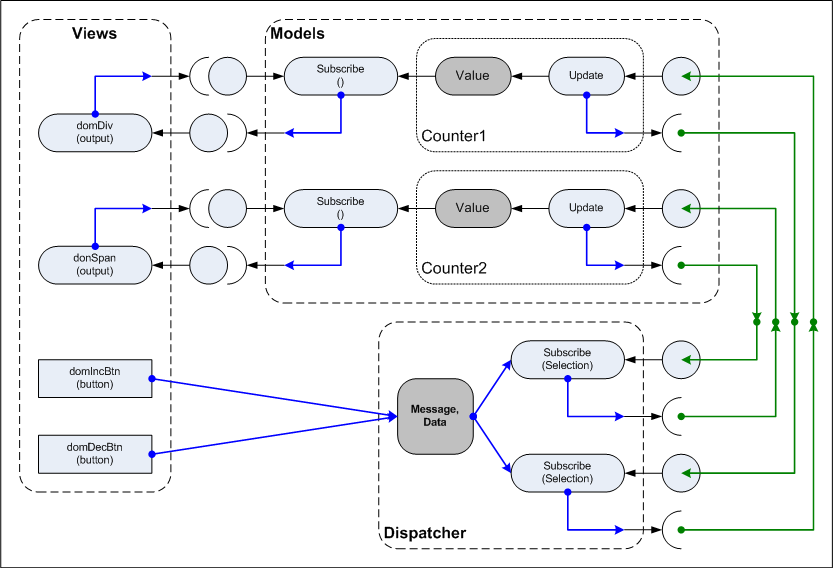
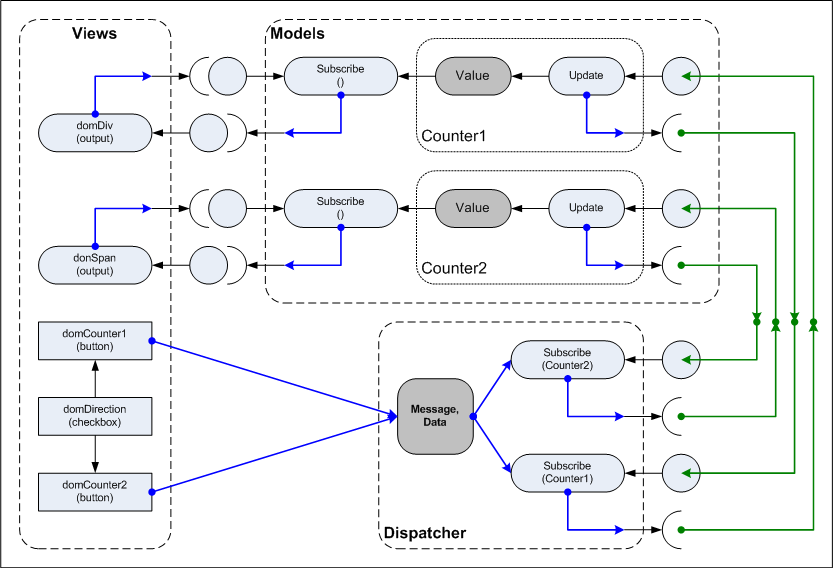
Update ReadMe

diff --git a/README.md b/README.md
@@ -8,3 +8,19 @@ In this sampler I have developed a UI model inspired by the Facebook FLUX patter
 * Views: User Interface elements that subscribe to the relative models they present.
 
 ![FLUX Sampler](./FLUX_Sampler.png)
+
+### The Scenario
+
+The Scenario used in this Sampler consists of two models each with its own view. 
+The models are simple integer counters shown through a div and span respectively. 
+Two buttons issue Actions to update the respective Model by +1 or -1 based on the value of a checkbox.
+
+#### Sequence
+As illustrated above:
+
+* A button fires an Action as a post in to the Dispatcher.
+* The Dispatcher forwards the message, and any associated data from the post, to all subscribing Models.
+* Affected Models use the information forwarded in the call-back to update the state before,
+* issuing an update to subscribing Views.
+* The Views present the updated values as they see fit.
+
